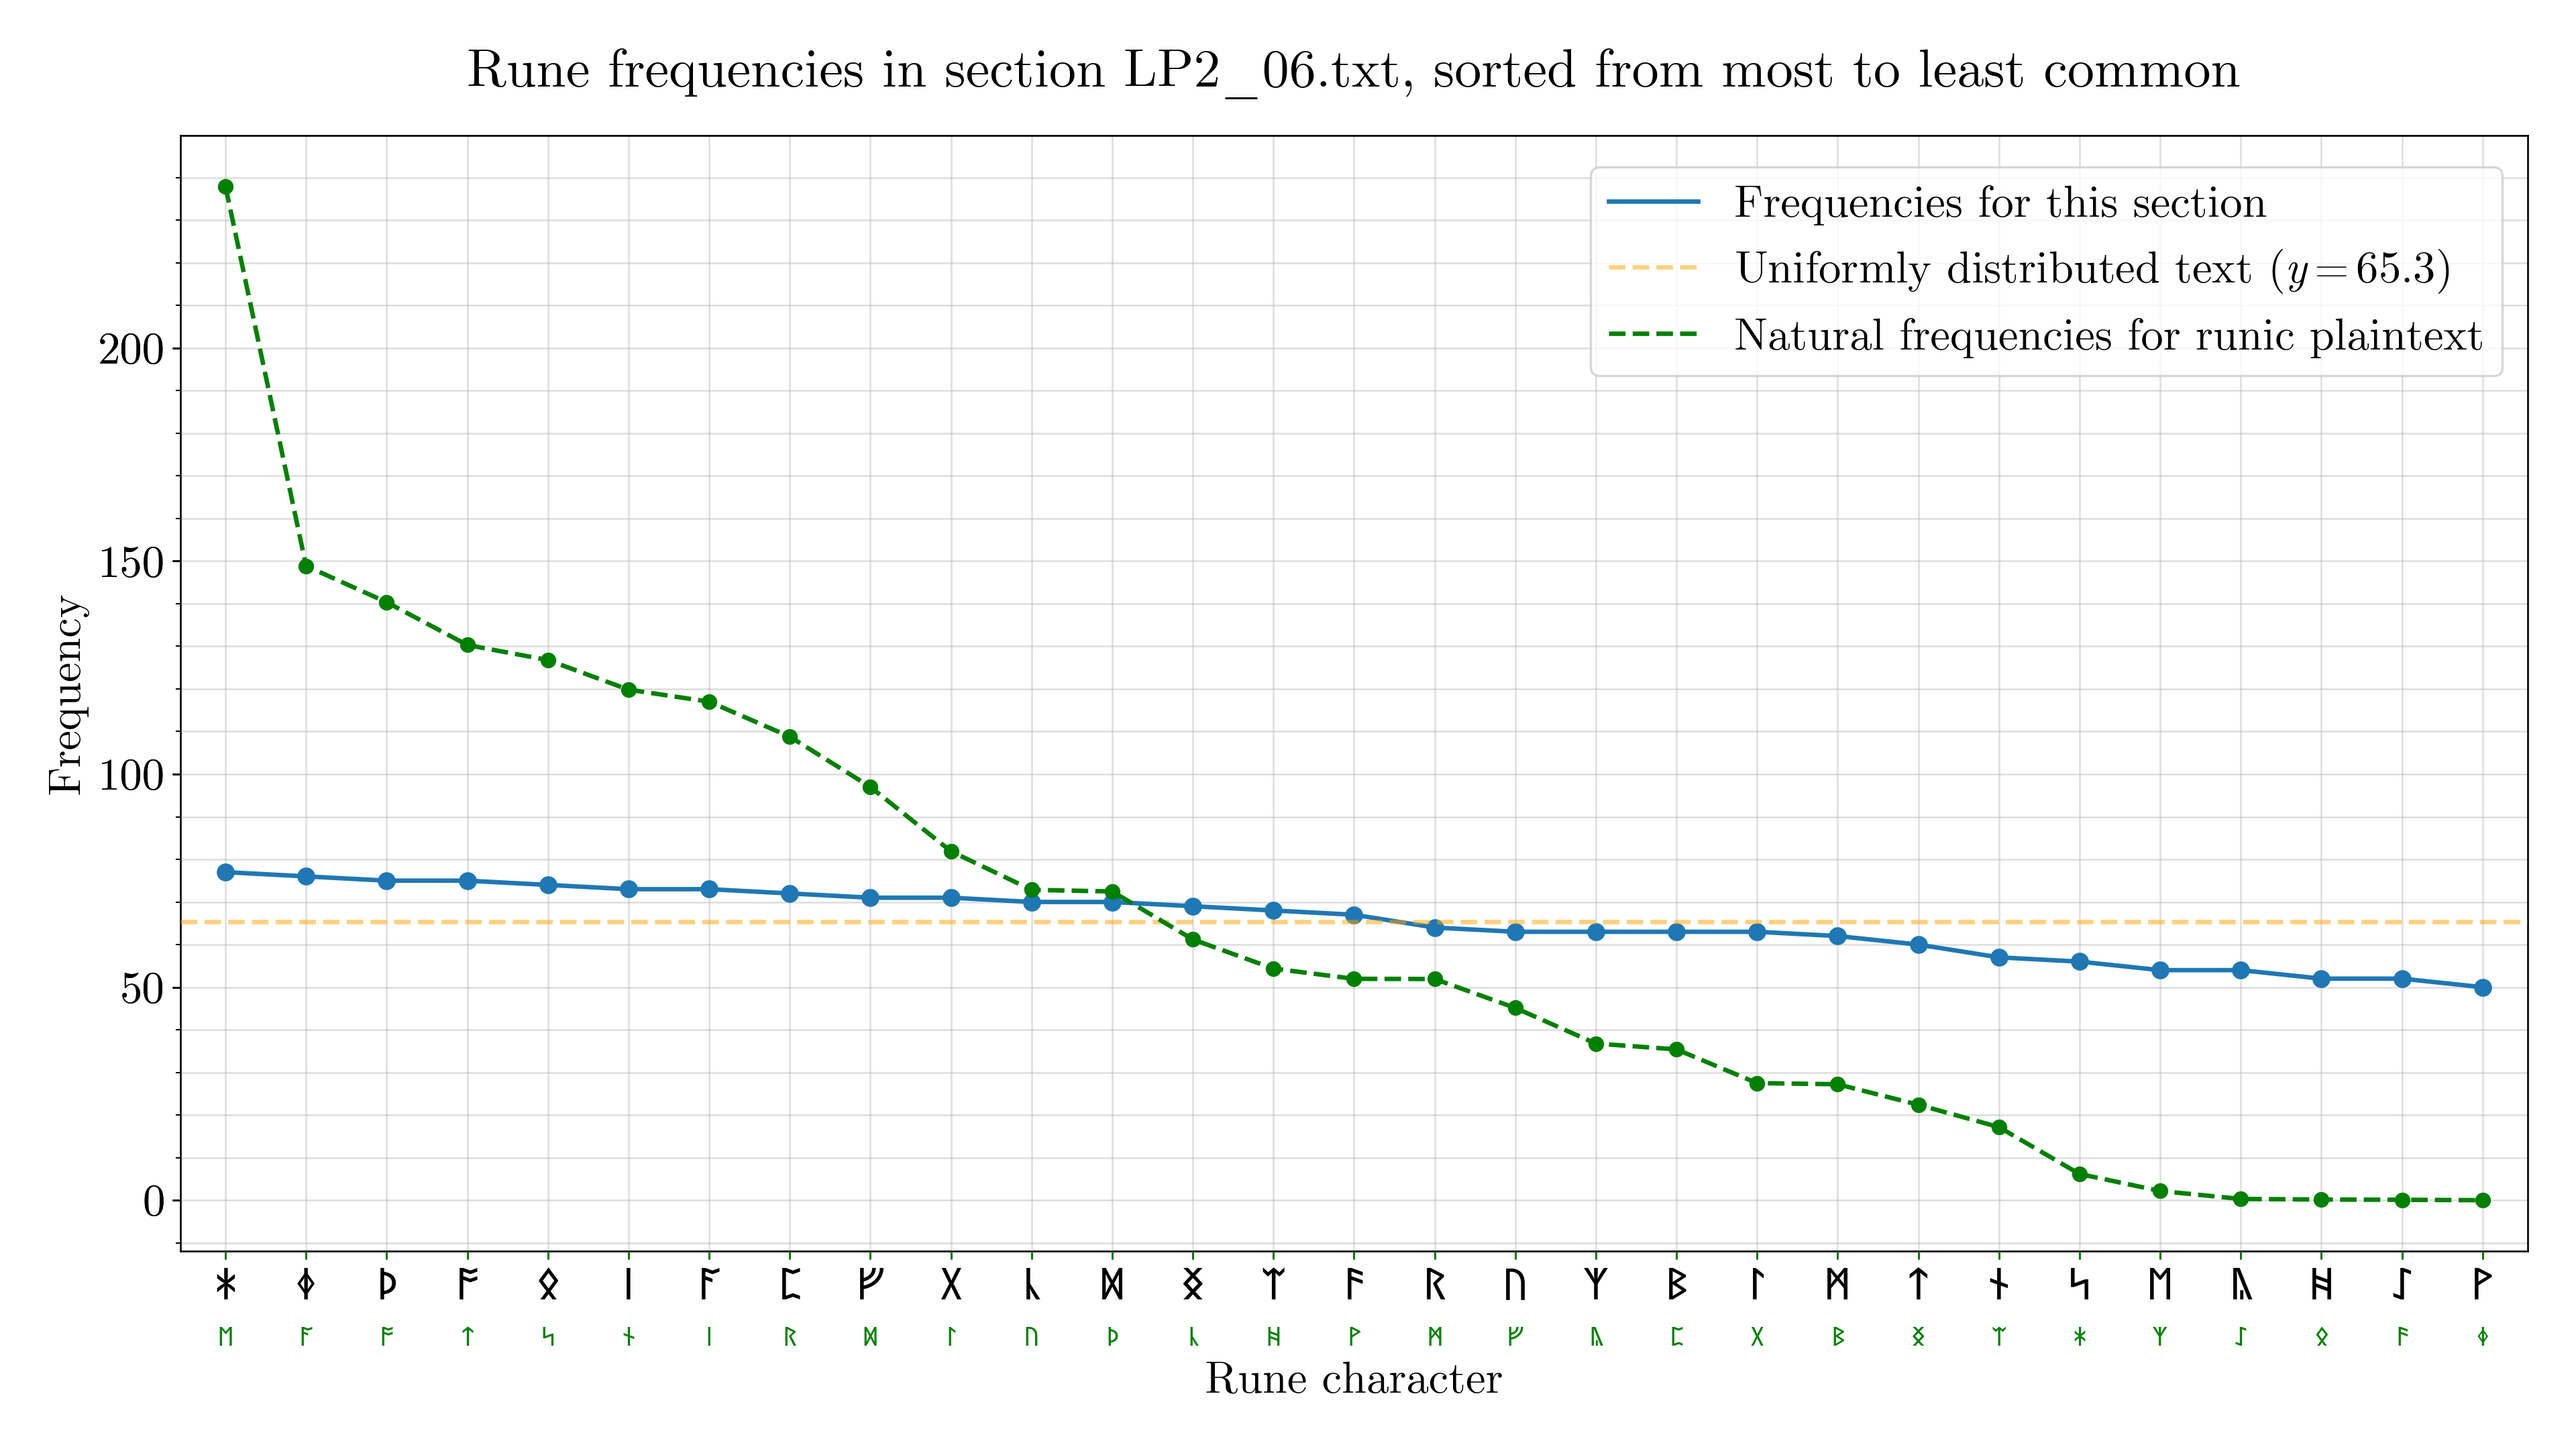
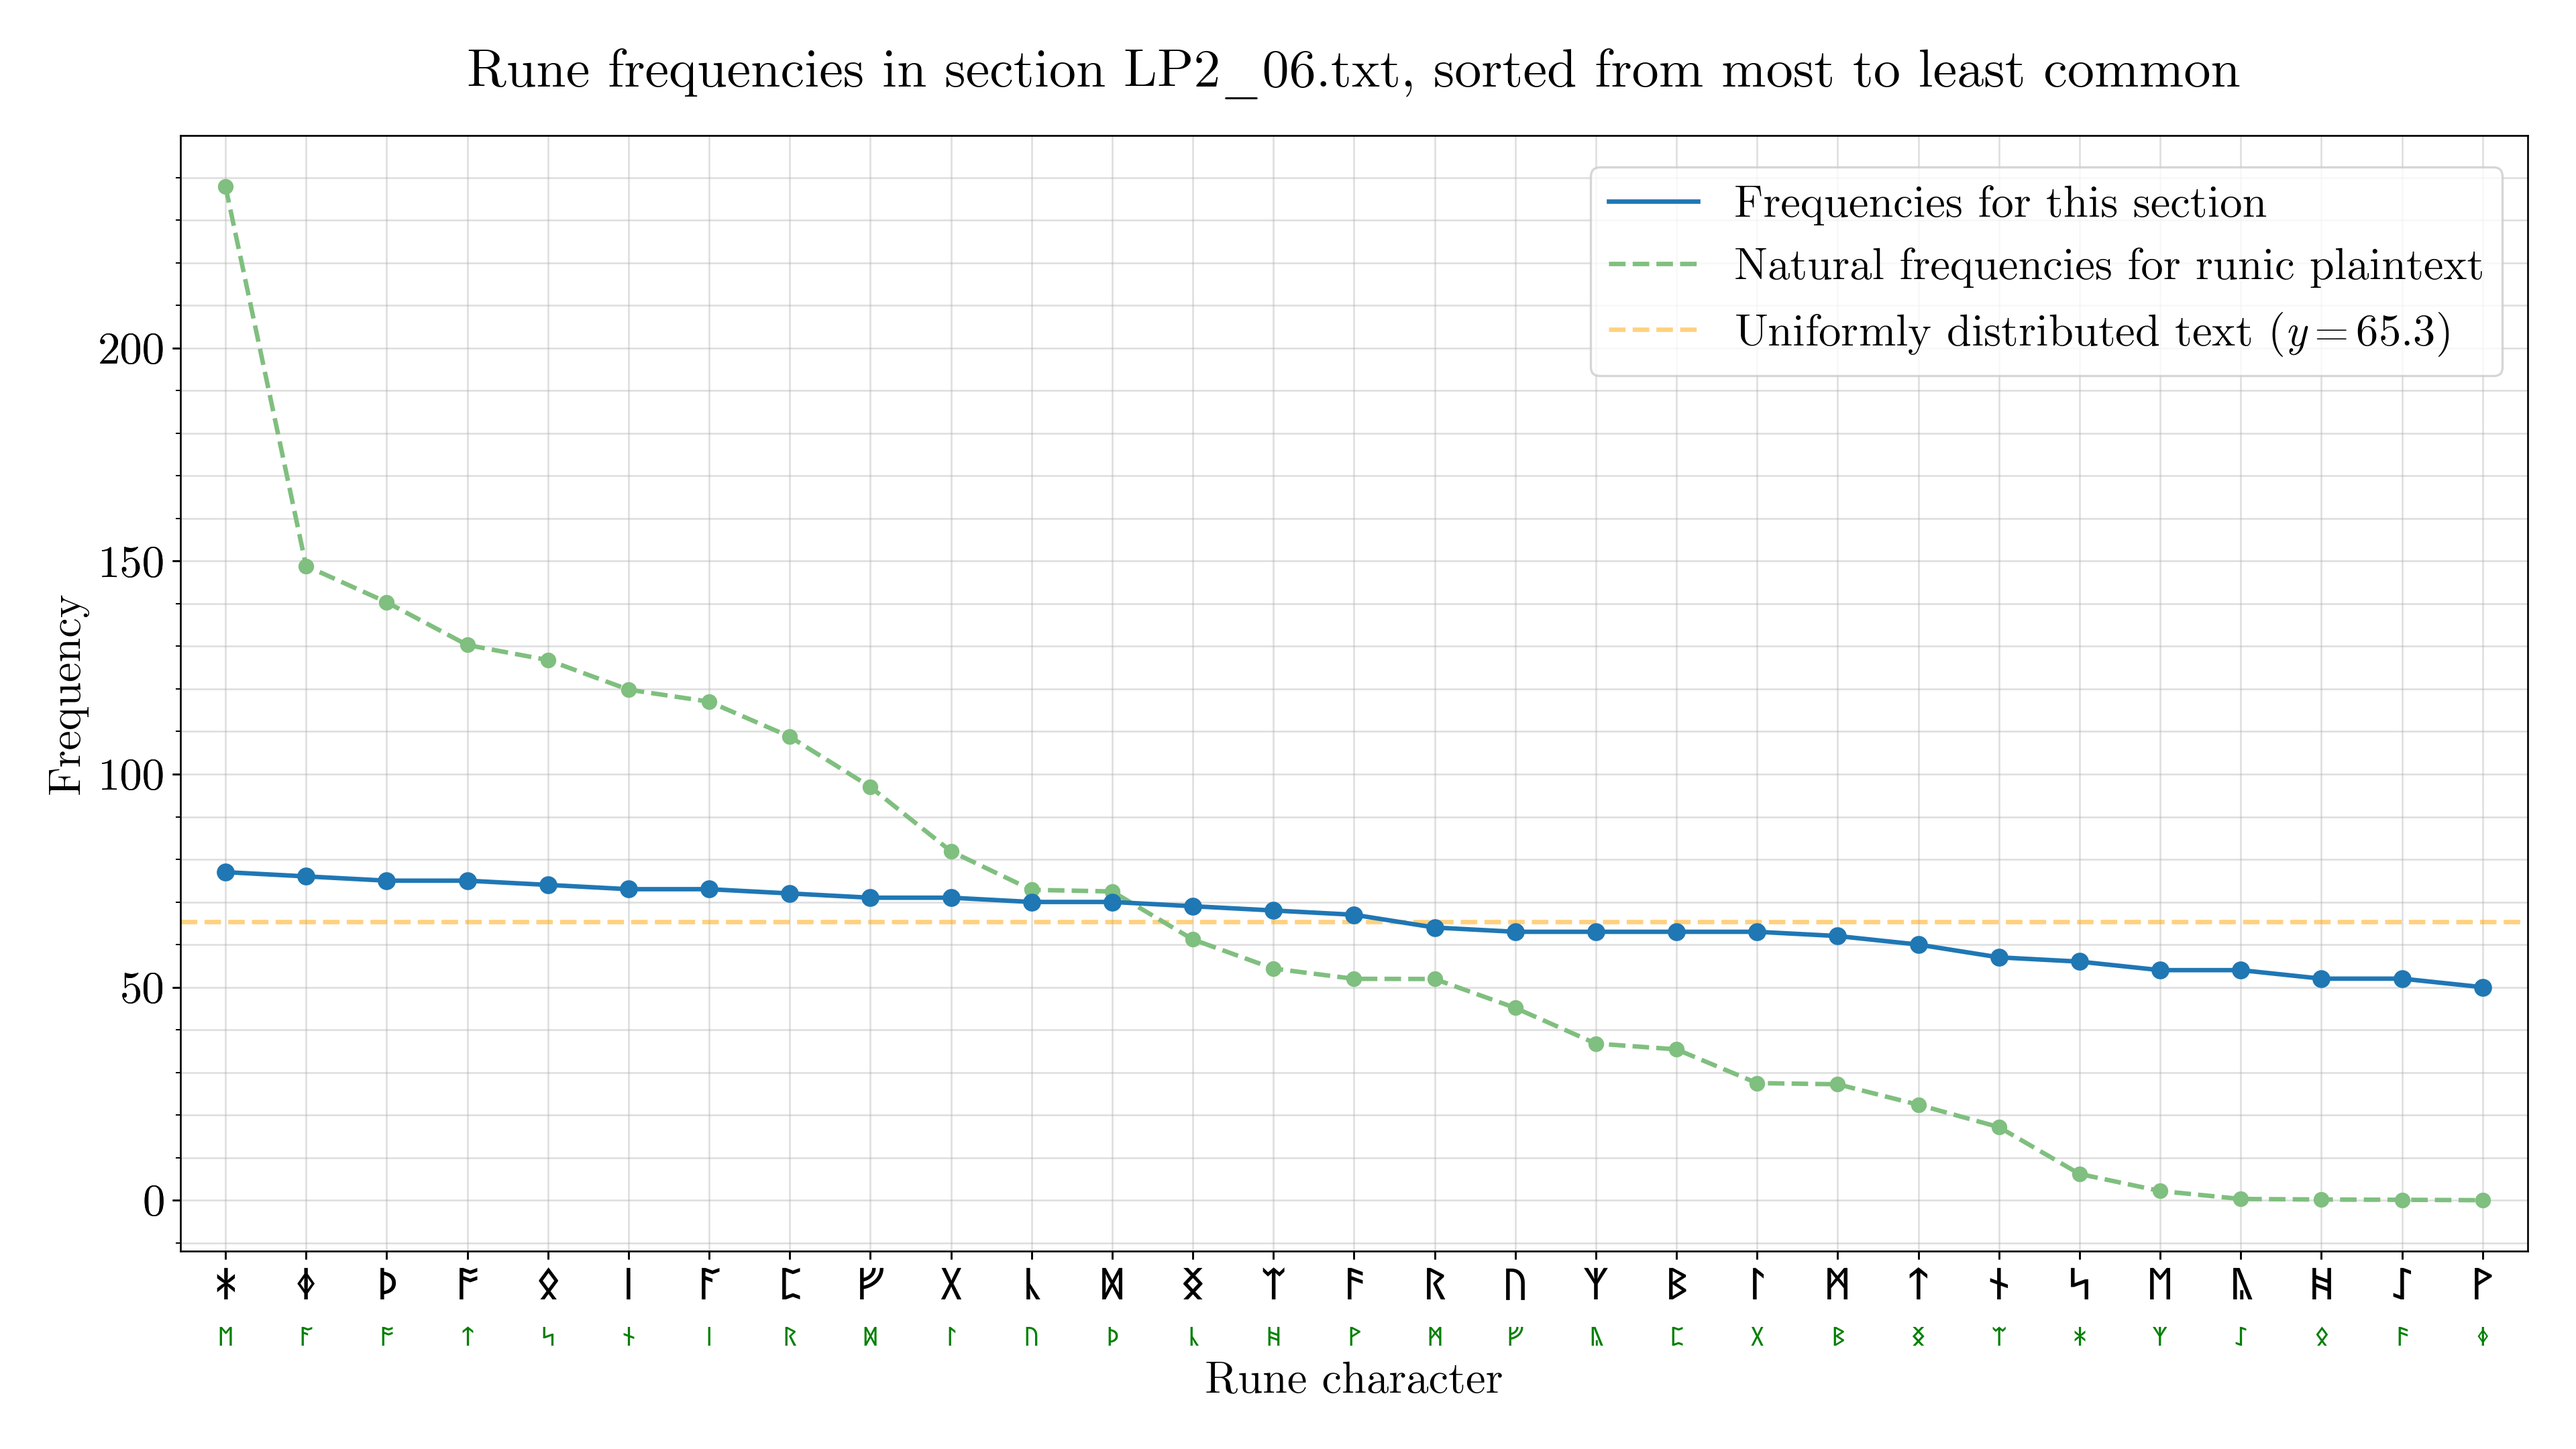
Correct z ordering in plots

diff --git a/tools/rune_frequency_plotter.py b/tools/rune_frequency_plotter.py
@@ -88,14 +88,9 @@ def write_section_plots(runebet):
             actualAxes.grid(True, which="both", alpha=0.4)
 
             plot_frequencies(actualAxes, actualFrequencies,
-                             linewidth=2, label="Frequencies for this section")
+                             linewidth=2, label="Frequencies for this section", zorder=3)
             scatter_frequencies(
-                actualAxes, actualFrequencies, linewidth=2)
-
-            flatY = sum(actualFrequencies.values()) / \
-                len(actualFrequencies.values())
-            idealAxes.axhline(y=flatY, linestyle="--", linewidth=2, color="orange",
-                              label=f"Uniformly distributed text ($y={round(flatY, 1)})$", alpha=0.5)
+                actualAxes, actualFrequencies, linewidth=2, zorder=3)
 
             naturalFrequencies = {'ᚠ': 4812, 'ᚢ': 7765, 'ᚦ': 7725, 'ᚩ': 14961, 'ᚱ': 11598, 'ᚳ': 6525, 'ᚷ': 2930, 'ᚹ': 5539, 'ᚻ': 5795, 'ᚾ': 12774, 'ᛁ': 12473, 'ᛄ': 0, 'ᛇ': 31, 'ᛈ': 3774,
                                   'ᛉ': 231, 'ᛋ': 13515, 'ᛏ': 13891, 'ᛒ': 2901, 'ᛖ': 25366, 'ᛗ': 5535, 'ᛚ': 8730, 'ᛝ': 2388, 'ᛟ': 17, 'ᛞ': 10340, 'ᚪ': 15869, 'ᚫ': 10, 'ᚣ': 3919, 'ᛡ': 657, 'ᛠ': 1829}
@@ -106,12 +101,20 @@ def write_section_plots(runebet):
             naturalFrequencies = {
                 k: v / normalisationConstant for k, v in naturalFrequencies.items()}
 
-            plot_frequencies(idealAxes, naturalFrequencies, label="Natural frequencies for runic plaintext",
-                             linestyle="--", linewidth=2, color="green")
-            scatter_frequencies(idealAxes, naturalFrequencies,
-                                color="green")
+            plot_frequencies(actualAxes, naturalFrequencies, label="Natural frequencies for runic plaintext",
+                             linestyle="--", linewidth=2, color="#7fbf7f", zorder=2)
+            actualAxes.scatter(range(len(naturalFrequencies.keys())), sorted(naturalFrequencies.values(), reverse=True),
+                               color="#7fbf7f", zorder=2)
+
+            # Show secondary axis ticks.
+            scatter_frequencies(idealAxes, naturalFrequencies, alpha=0)
+
+            flatY = sum(actualFrequencies.values()) / \
+                len(actualFrequencies.values())
+            actualAxes.axhline(y=flatY, linestyle="--", linewidth=2, color="orange",
+                               label=f"Uniformly distributed text ($y={round(flatY, 1)})$", alpha=0.5, zorder=1)
+
             idealAxes.xaxis.tick_bottom()
-            idealAxes.tick_params(axis="x", colors="green")
 
             # Shift ticks downwards
             idealAxes.tick_params(axis="x", direction="out", pad=30)
@@ -119,6 +122,7 @@ def write_section_plots(runebet):
             for label in idealAxes.get_xticklabels():
                 label.set_fontproperties(
                     fm.FontProperties(family="Segoe UI Historic", size=12))
+                label.set_color("green")
             for label in actualAxes.get_xticklabels():
                 label.set_fontproperties(
                     fm.FontProperties(family="Segoe UI Historic"))
